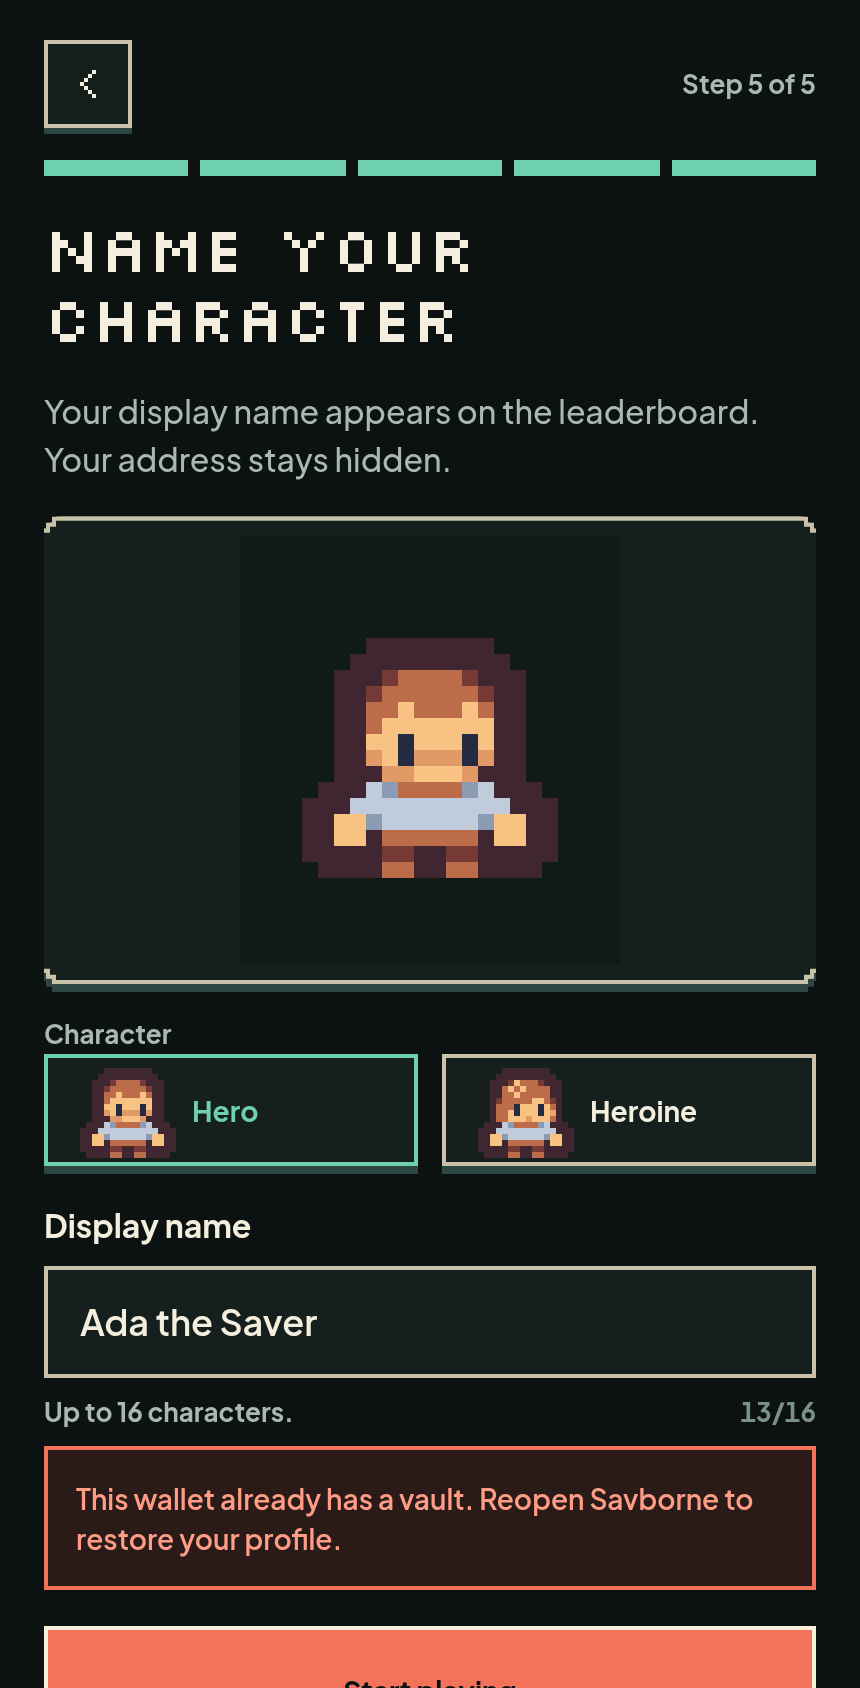
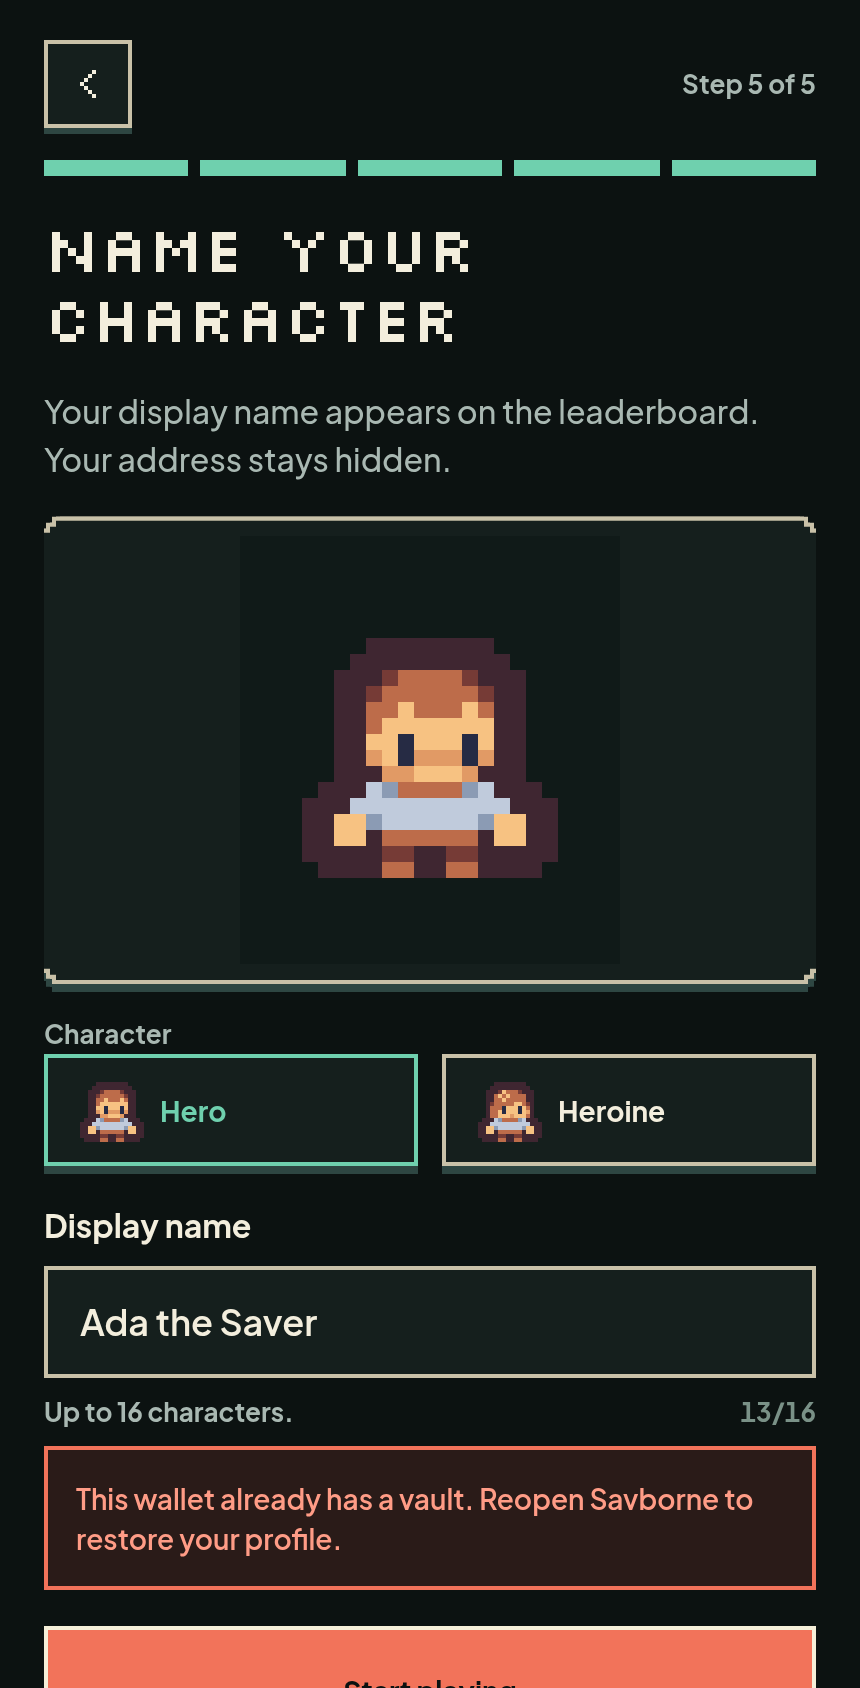
fix: inset the character picker art

Changed region(s): [[0.5442, 0.6161, 0.8163, 0.7085], [0.0907, 0.6161, 0.3023, 0.7085]]

diff --git a/src/lib/character.test.ts b/src/lib/character.test.ts
@@ -24,11 +24,11 @@ test('CharacterArt maps Hero and Heroine for every bracket, default Hero', () =>
   assert.match(ART, /character\?: Avatar/)
 })
 
-test('the picker is two 56px toggles with 48px art', () => {
+test('the picker is two 56px toggles with 32px art', () => {
   assert.match(PICKER, /role="group" aria-label="Character"/)
   assert.match(PICKER, /grid grid-cols-2 gap-3/)
   assert.match(PICKER, /aria-pressed=\{selected\}/)
-  assert.match(PICKER, /<CharacterArt bracket=\{bracket\} character=\{option\} size=\{48\} \/>/)
+  assert.match(PICKER, /<CharacterArt bracket=\{bracket\} character=\{option\} size=\{32\} \/>/)
   assert.match(PICKER, /variant="secondary"/)
   assert.match(PICKER, /border-mint text-mint/)
   assert.match(PICKER, /const LABELS: Record<Avatar, string> = \{ hero: 'Hero', heroine: 'Heroine' \}/)

diff --git a/src/components/CharacterPicker.tsx b/src/components/CharacterPicker.tsx
@@ -41,7 +41,7 @@ export function CharacterPicker({
             }`.trim()}
             onClick={() => onChange(option)}
           >
-            <CharacterArt bracket={bracket} character={option} size={48} />
+            <CharacterArt bracket={bracket} character={option} size={32} />
             <span>{LABELS[option]}</span>
           </Button>
         )

diff --git a/docs/superpowers/renders/onboarding/review/NOTES.md b/docs/superpowers/renders/onboarding/review/NOTES.md
@@ -84,7 +84,8 @@ Corrections:
   The profile stores an art choice (`avatar`), not a gender identity, and the
   privacy collect card names the chosen character as game data.
 - **Default Hero:** both options are visible and switching is one tap; no extra
-  required field. The preview updates immediately.
+  required field. The preview updates immediately. The picker uses 32px art in
+  56px cards, so the sprite has 12px above and below.
 - **Changeable:** Settings > Account > Character uses the same picker and saves
   through `PATCH /api/players/me`. The name remains fixed; appearance does not.
 - **Player sprites only:** Home, Profile, Name, the ranked queue me-card, the

diff --git a/docs/superpowers/plans/2026-11-09-onboarding-character.md b/docs/superpowers/plans/2026-11-09-onboarding-character.md
@@ -46,7 +46,7 @@
 - Test: `src/lib/character.test.ts`, `src/lib/onboarding.test.ts`
 
 - [ ] `CharacterArt` maps Hero and Heroine for every bracket; default Hero.
-- [ ] `CharacterPicker` with `aria-pressed`, 56px buttons, 48px art, selected
+- [ ] `CharacterPicker` with `aria-pressed`, 56px buttons, 32px art, selected
   mint border.
 - [ ] Provider draft `avatar` + `setAvatar`; `finish` sends it.
 - [ ] Name preview uses the avatar; picker under the preview; step stays 5.

diff --git a/docs/superpowers/audits/2026-11-05-ui-gap-audit.md b/docs/superpowers/audits/2026-11-05-ui-gap-audit.md
@@ -927,7 +927,7 @@ unchanged.
 ### What landed
 
 - **Name step:** the 128px preview uses the chosen character. A "Character"
-  fieldset holds two 56px picker buttons with 48px art, `aria-pressed`, a mint
+  fieldset holds two 56px picker buttons with 32px art, `aria-pressed`, a mint
   border and label on the selected option. Hero is the default; the preview
   updates immediately. The body is two lines and the panel is 230px so the CTA
   stays on screen at 360.

diff --git a/docs/superpowers/specs/2026-11-09-onboarding-character-design.md b/docs/superpowers/specs/2026-11-09-onboarding-character-design.md
@@ -62,8 +62,8 @@ for all four brackets.
 
 - Two 56px buttons in a 2-column grid, `aria-pressed`, mint border and label on
   the selected one.
-- Each shows the 48px character art for the current bracket and the label Hero
-  or Heroine.
+- Each shows the 32px character art for the current bracket and the label Hero
+  or Heroine. The 56px card leaves 12px above and below the art.
 - Used in the Name step and Settings.
 
 Name step, under the 128px preview:
